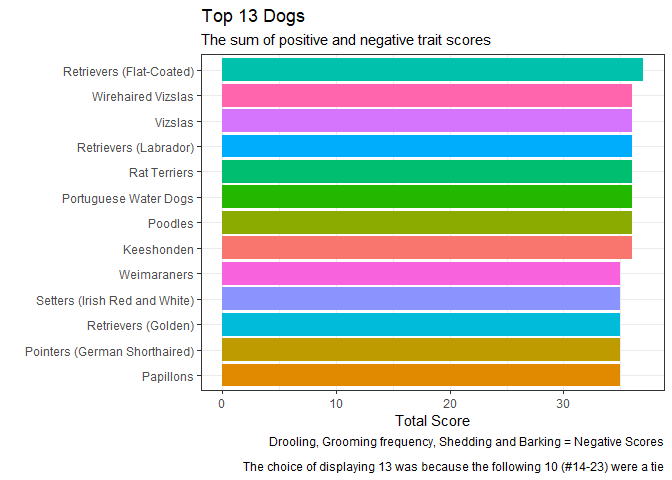
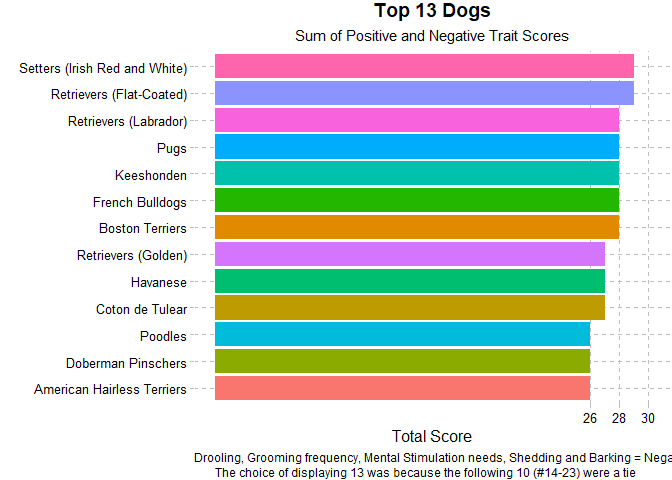
Update the theme of Top 13 Dogs plot

diff --git a/DogBreeds.md b/DogBreeds.md
@@ -44,17 +44,20 @@ breed_traits %>%
 ``` r
 breed_long %>%
   group_by(breed) %>%
-  mutate(value = ifelse(trait %in% c("drooling level", "coat grooming frequency", "shedding level", "barking level"),
+  mutate(value = ifelse(trait %in% c("drooling level", "coat grooming frequency", 
+                                     "shedding level", "barking level", "mental stimulation needs"),
                         -value, value)) %>%
   summarize(total_score = sum(value)) %>%
   arrange(-total_score) %>% 
   head(13) %>%
-  ggplot(aes(total_score, fct_reorder(breed, total_score), fill = breed)) + geom_col() +
-  theme(legend.position = "") +
-  labs(title = "Top 13 Dogs", subtitle = "The sum of positive and negative trait scores",
+  ggplot(aes(total_score, fct_reorder(breed, total_score), fill = breed)) + geom_col() + theme_pander() + 
+  scale_x_continuous(minor_breaks = seq(26,30,2), breaks = seq(26,30,2), limits = c(0,30)) +
+  labs(title = "Top 13 Dogs", subtitle = "Sum of Positive and Negative Trait Scores",
        y = "", x = "Total Score", 
-       caption = "Drooling, Grooming frequency, Shedding and Barking = Negative Scores\n
-                  The choice of displaying 13 was because the following 10 (#14-23) were a tie")
+       caption = "Drooling, Grooming frequency, Mental Stimulation needs, Shedding and Barking = Negative Scores\n
+       The choice of displaying 13 was because the following 10 (#14-23) were a tie") +
+  theme(legend.position = "", plot.caption = element_text(lineheight = 0.5, hjust = 0), 
+        plot.title = element_text(hjust = 0.5), plot.subtitle = element_text(hjust = 0.5))
 ```
 
 ![](DogBreeds_files/figure-gfm/unnamed-chunk-4-1.png)<!-- -->
